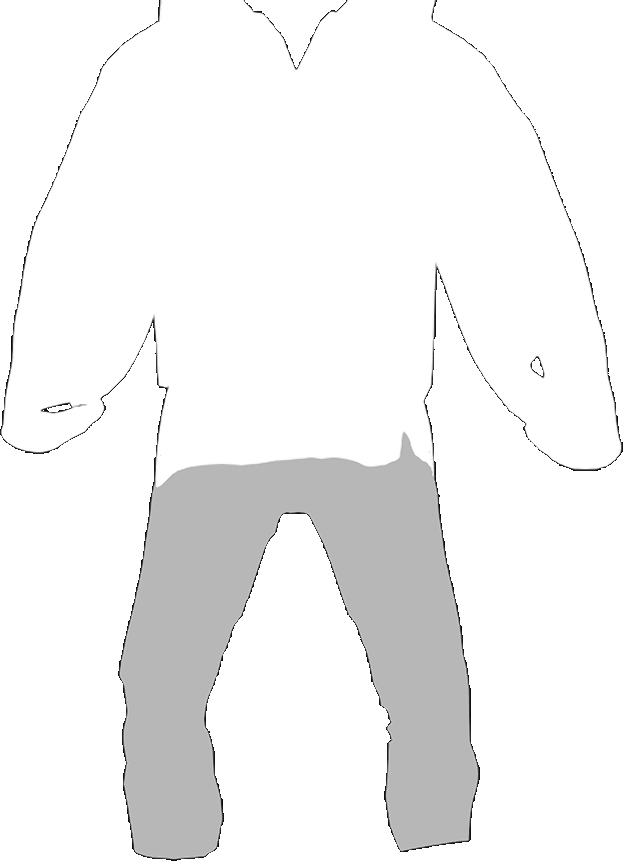
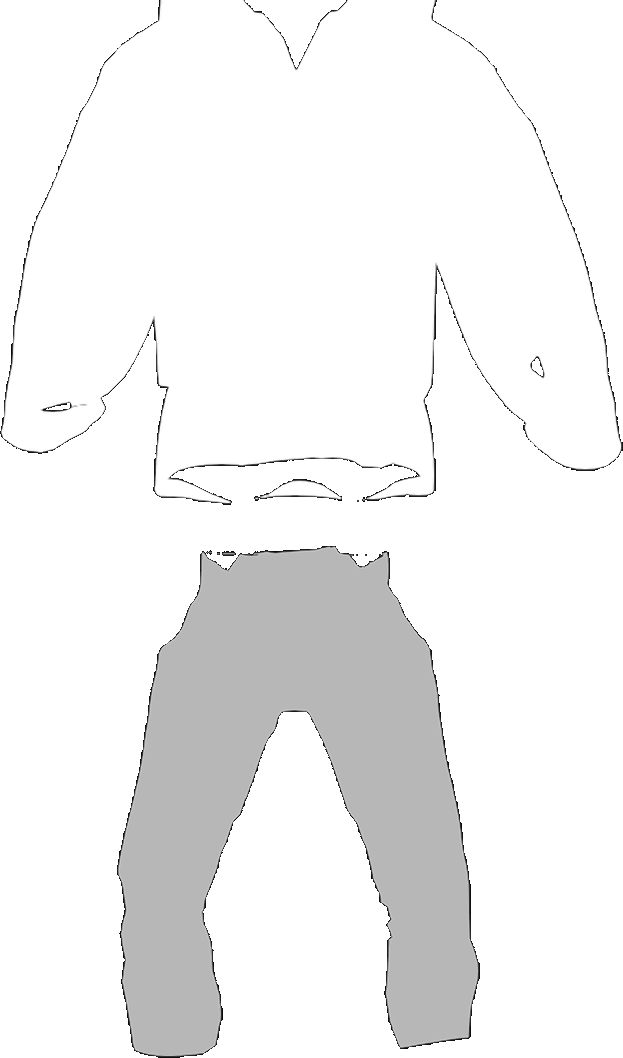
Right thigh pocket; inventory layout pass and background blur
Work trousers gain a right thigh Quick Access pocket with its own HUD card
and anchor. The 3D inventory's clothes panel is smaller near the left edge
with the trousers apart from the coat, the hand card beside it, fainter
flipped body cards and still items; everything past the pack blurs.

Claude-Session: https://claude.ai/code/session_013ZwNMwJfCvd62fEEgFaFd1

diff --git a/docs/technical/PACK_INTERIOR.md b/docs/technical/PACK_INTERIOR.md
@@ -52,9 +52,10 @@ Code: `scripts/items/backpack/pack_quick_shelf.gd` (`PackQuickShelf`), a child o
 
 - Each real quick pocket is a card on the Quick Access gradient (`BG_frame.gdshader`, drawn once per fade direction and tinted). There is no text.
 - **Shown on the pack** (side pockets, both carabiners; `PackRig.SHOWN_POCKETS`): nothing is drawn over it. An unseen card stands square to the camera behind the real item (`PackRig.get_pocket_visual`), or around the empty pocket's spot (`get_pocket_spot`), only so the ring can hover it. The item itself is hit on its own screen outline (the ring's silhouette); where outlines overlap the smallest wins; the unseen card serves an empty pocket. `aim_point(k)` gives stands and captures a point that hovers slot k. A strapped item under the cursor wins over any of them.
-- **Hidden on the body** (coat, thigh): the cards sit on a see-through grey panel of Henry's coat and trousers at the frame's left, where each pocket is. The panel (`assets/ui/inventory/body_front.png`) and the pockets' places on it (`body_front.json`, from his bones) are baked by `tools/runtime/bake_body_silhouette.gd` from the real `Outfit_Jacket` and `Outfit_Pants` seen square from the front; re-bake when the outfit changes.
+- **Hidden on the body** (two coat pockets, two thigh pockets): the cards sit on a see-through grey panel of Henry's coat and trousers near the frame's left edge, where each pocket is, at `BODY_CARD_ALPHA` and with their gradient fading the other way. The panel (`assets/ui/inventory/body_front.png`, the trousers dropped 6 cm below the coat's hem so the two read apart) and the pockets' places on it (`body_front.json`, from his bones) are baked by `tools/runtime/bake_body_silhouette.gd` from the real `Outfit_Jacket` and `Outfit_Pants` seen square from the front; re-bake when the outfit changes.
+- Items stand still on their cards, turned a little (`ITEM_TURN`) so their shape reads.
 - **Hidden on the pack** (the lid pocket): a card at the right, with its 3D item turning on it.
-- **Hand card** (right, middle): the hand icon (`hand_open.svg`, faint) and the Quick Access pick's item, what Henry takes in hand when the pack goes back on. A pocket's item let go on it becomes the pick; taking from it takes from that pocket.
+- **Hand card** (beside the body panel, at the hands' height): the hand icon (`hand_open.svg`, faint) and the Quick Access pick's item, what Henry takes in hand when the pack goes back on. A pocket's item let go on it becomes the pick; taking from it takes from that pocket.
 - The fit rule is the equipment's own (`can_stow`): a taken pocket is full (`INVENTORY_POCKET_FULL`), and a size-class refusal is `INVENTORY_POCKET_TOO_SMALL`.
 
 ## Hands

diff --git a/docs/technical/QUICK_ACCESS.md b/docs/technical/QUICK_ACCESS.md
@@ -12,12 +12,15 @@ Quick Access is a physical-pocket selector around Henry, not a generic hotbar.
 - `1`–`4` remain expert direct-draw shortcuts. They flash only the addressed pocket instead of opening the full selector.
 - Empty pockets stay visible as part of Henry's body map but wheel navigation skips them.
 
-The four selectable locations are:
+The body's selectable locations are:
 
 1. left coat pocket;
 2. right coat pocket;
-3. left thigh pocket;
-4. backpack lid pocket.
+3. backpack lid pocket;
+4. left thigh pocket;
+5. right thigh pocket (wheel only: keys `1`–`4` stay on the first four).
+
+The right thigh card is built at runtime from the left thigh's (`QuickAccessUI.thigh_right`) and follows `ThighRightAnchor`.
 
 `HANDS` is deliberately not a fifth slot. It is a live status card that reports the item Henry is actually holding and, when useful, its state.
 
@@ -27,7 +30,7 @@ The cards are projected from `QuickAccessAnchors` around Henry and rendered as s
 
 - The anchor rig follows camera yaw each frame; screen-space card following provides the visible smoothing.
 - Opening the selector does not pause orbit. In a normal frame, each card follows its own `Node3D` anchor. When projected cards begin to crowd, or the camera frames Henry in a tight space (`TpsCamera.get_composition()`), they blend smoothly into a cross around `HANDS`. As framing opens up, they blend back to their individual anchors.
-- The cross has fixed places: left coat pocket left, right coat pocket right, pack lid above, thigh below. Spacing comes from the real card sizes plus `ORBIT_GAP_PX`, so no two cards can touch; the cross is bounded as a whole, never card by card.
+- The cross has fixed places: left coat pocket left, right coat pocket right, pack lid above, left thigh below, right thigh below it. Spacing comes from the real card sizes plus `ORBIT_GAP_PX`, so no two cards can touch; the cross is bounded as a whole, never card by card.
 - The cross centre glides from Henry's projected hands to the screen centre with the camera composition: around Henry when cards merely crowd in the open, centred on screen in tight spaces where Henry sits low at the frame edge.
 - The selector closes after five seconds without navigation or confirmation. Each wheel tick while open restarts the five-second countdown, even if no other filled pocket is available.
 - Cards use `BG_frame.gdshader`; `reveal` grows the background outward and `base_color` carries inactive/active state.

diff --git a/CHANGELOG.md b/CHANGELOG.md
@@ -8,6 +8,14 @@ The previous long-form development diary is preserved unchanged in [`archive/CHA
 
 ### Changed
 
+- Work trousers gain a right thigh pocket (`legs_outer/thigh_right`, Quick Access).
+  - The HUD builds its card from the left thigh's, below the pack lid in the cross.
+  - It has its own anchor (`ThighRightAnchor`) and is reached with the wheel; keys 1-4 are unchanged.
+- 3D inventory layout pass.
+  - The clothes panel is smaller, near the left edge, and the trousers sit apart from the coat.
+  - The hand card stands beside the panel.
+  - The body cards' gradient fades the other way and is fainter. Items no longer spin on cards.
+  - Everything past the pack's back wall, Henry included, blurs with high-quality bokeh while the pack is held.
 - 3D inventory: the coat's and trousers' pocket cards sit on a see-through grey panel of Henry's clothes at the left.
   - The panel is baked from the real jacket and trousers by `tools/runtime/bake_body_silhouette.gd`.
   - A hand card at the right shows what Henry takes in hand; a pocket's item let go on it becomes the pick.
